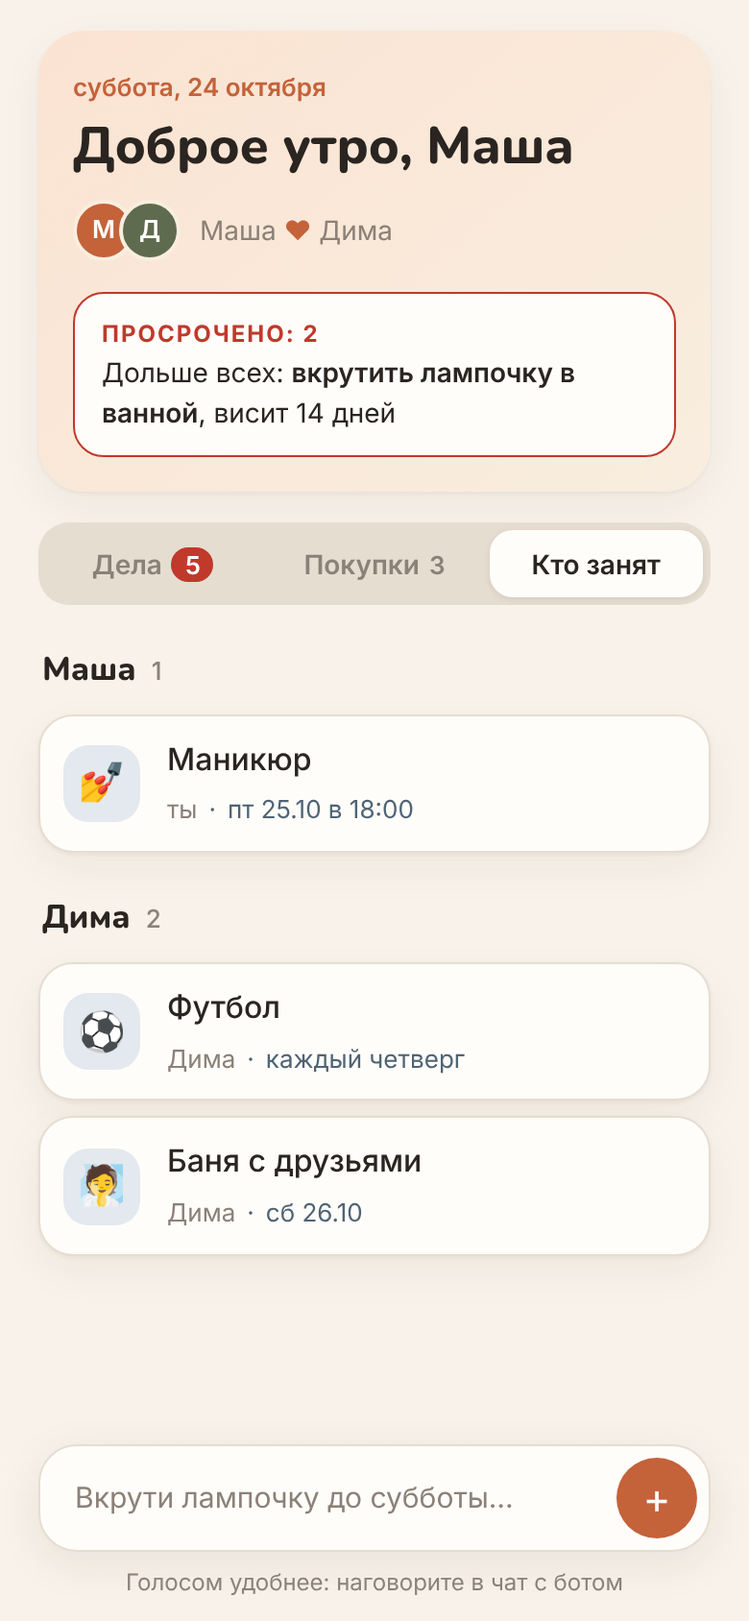
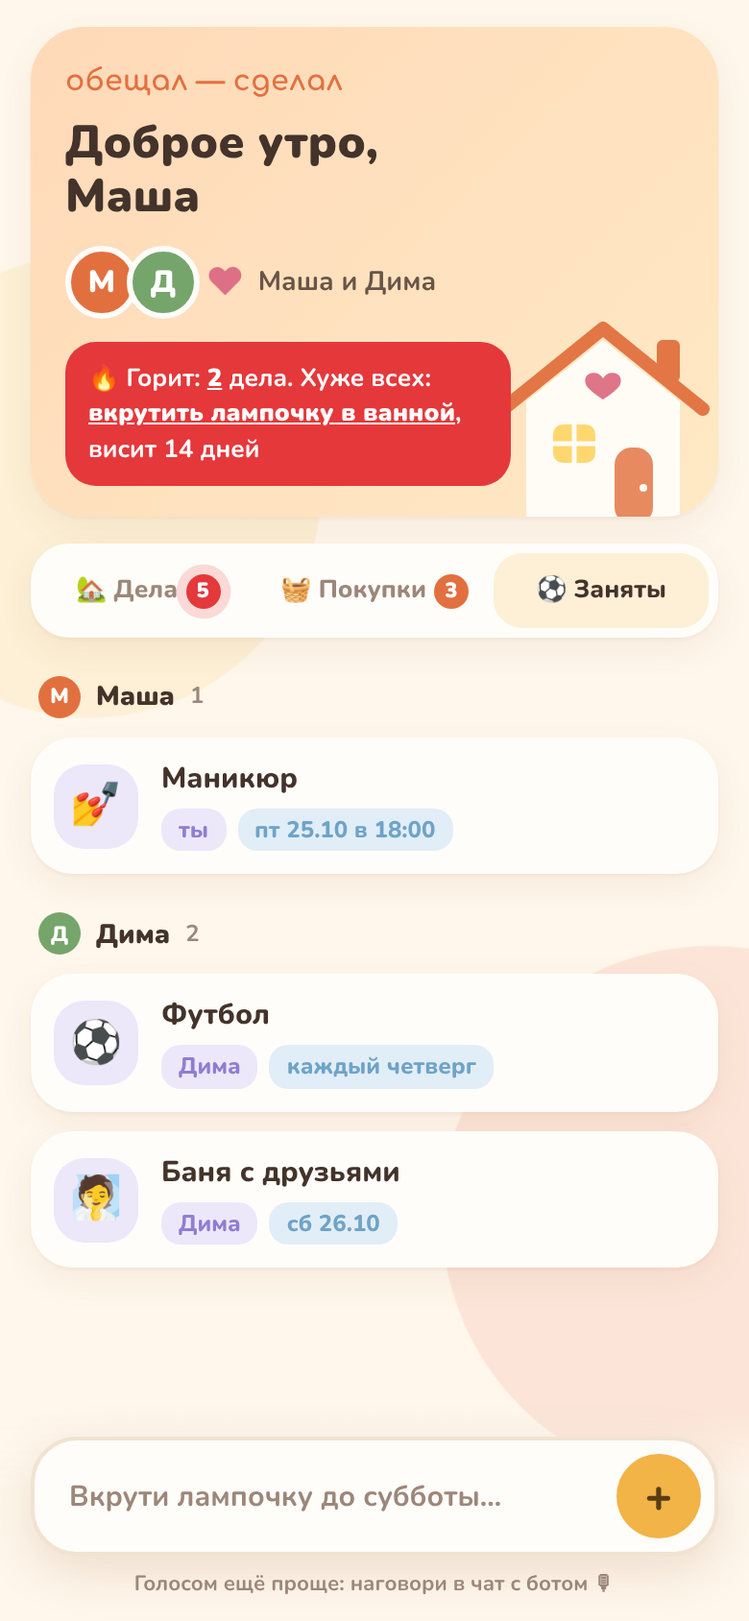
Мини-приложение: возврат к уютному дизайну с домиком
Оставлено красное выделение просроченных дел.

Claude-Session: https://claude.ai/code/session_01K4WBGGq4fEqRaNC21ns6ax

diff --git a/webapp/index.html b/webapp/index.html
@@ -6,127 +6,151 @@
 <title>Обещал — сделал</title>
 <script src="https://telegram.org/js/telegram-web-app.js"></script>
 <link rel="preconnect" href="https://fonts.googleapis.com">
-<link href="https://fonts.googleapis.com/css2?family=Nunito:wght@700;800&family=Inter:wght@400;500;600;700&display=swap" rel="stylesheet">
+<link href="https://fonts.googleapis.com/css2?family=Comfortaa:wght@700&family=Nunito:wght@600;700;800;900&display=swap" rel="stylesheet">
 <style>
 :root{
-  --bg:#F8F2EA; --paper:#FFFDFA; --ink:#2A2521; --muted:#8B8178; --line:#E6DDD1;
-  --accent:#C4623A; --accent-soft:#F8E4D8; --peach1:#FBE3D2; --peach2:#F8EEDF; --olive:#5F6B4E; --olive-soft:#E7EADF;
-  --plum:#6E4A5E; --plum-soft:#EFE5EA; --slate:#4F6475; --slate-soft:#E3E9EE;
-  --hot:#C0392B; --hot-soft:#FBEAE7; --hot-glow:rgba(192,57,43,.16);
-  --shadow:0 1px 2px rgba(60,40,20,.05), 0 8px 24px rgba(60,40,20,.05);
+  --bg:#FFF7EC; --paper:#FFFDF9; --ink:#43332B; --muted:#9C877A; --line:#F1E3D2;
+  --terra:#E2703F; --terra-soft:#FCE5D8; --honey:#F2B347; --honey-soft:#FDF0D6;
+  --sage:#76A56B; --sage-soft:#E5F0DF; --rose:#DD6F86; --rose-soft:#FBE3E8;
+  --lav:#8C7FD1; --lav-soft:#ECE8FA; --sky:#6FA3C8; --sky-soft:#E1EEF7;
+  --hero1:#FFD9B8; --hero2:#FFE9C4; --shadow:0 6px 18px rgba(140,90,50,.08), 0 1px 2px rgba(140,90,50,.06);
+  --window:#FFD66B; --hot:#E5383B; --hot-soft:#FFE3E0; --hot-glow:rgba(229,56,59,.18);
 }
 @media (prefers-color-scheme: dark){
   :root:not([data-theme="light"]){
-    --bg:#181512; --paper:#221E1A; --ink:#EDE6DD; --muted:#9A8F84; --line:#352F29;
-    --accent:#E08A62; --accent-soft:#3A2A20; --peach1:#3A281E; --peach2:#2C241D; --olive:#A3B08C; --olive-soft:#2A2E22;
-    --plum:#C99BB3; --plum-soft:#35262E; --slate:#95ADC0; --slate-soft:#232C33;
-    --hot:#F0645A; --hot-soft:#3A1D1A; --hot-glow:rgba(240,100,90,.22); --shadow:none;
+    --bg:#1F1813; --paper:#2A211B; --ink:#F5E9DF; --muted:#AE9888; --line:#3A2E26;
+    --terra:#F08A5D; --terra-soft:#43291D; --honey:#F5C266; --honey-soft:#3F3220;
+    --sage:#93C487; --sage-soft:#26331F; --rose:#F08EA2; --rose-soft:#42232B;
+    --lav:#A99DEB; --lav-soft:#2D2843; --sky:#8FBEDF; --sky-soft:#1F2F3B;
+    --hero1:#4A2F22; --hero2:#3D3020; --shadow:0 6px 18px rgba(0,0,0,.25); --window:#F5C266; --hot:#FF5A5F; --hot-soft:#4A1F1F; --hot-glow:rgba(255,90,95,.25);
   }
 }
 :root[data-theme="dark"]{
-  --bg:#181512; --paper:#221E1A; --ink:#EDE6DD; --muted:#9A8F84; --line:#352F29;
-  --accent:#E08A62; --accent-soft:#3A2A20; --peach1:#3A281E; --peach2:#2C241D; --olive:#A3B08C; --olive-soft:#2A2E22;
-  --plum:#C99BB3; --plum-soft:#35262E; --slate:#95ADC0; --slate-soft:#232C33;
-  --hot:#F0645A; --hot-soft:#3A1D1A; --hot-glow:rgba(240,100,90,.22); --shadow:none;
+  --bg:#1F1813; --paper:#2A211B; --ink:#F5E9DF; --muted:#AE9888; --line:#3A2E26;
+  --terra:#F08A5D; --terra-soft:#43291D; --honey:#F5C266; --honey-soft:#3F3220;
+  --sage:#93C487; --sage-soft:#26331F; --rose:#F08EA2; --rose-soft:#42232B;
+  --lav:#A99DEB; --lav-soft:#2D2843; --sky:#8FBEDF; --sky-soft:#1F2F3B;
+  --hero1:#4A2F22; --hero2:#3D3020; --shadow:0 6px 18px rgba(0,0,0,.25); --window:#F5C266; --hot:#FF5A5F; --hot-soft:#4A1F1F; --hot-glow:rgba(255,90,95,.25);
 }
 *{box-sizing:border-box;-webkit-tap-highlight-color:transparent}
-body{margin:0;background:var(--bg);color:var(--ink);font:400 15px/1.45 Inter,system-ui,sans-serif;padding:0 20px 130px}
+body{margin:0;background:var(--bg);color:var(--ink);font:700 15px/1.4 Nunito,system-ui,sans-serif;padding:0 16px 130px;
+  background-image:radial-gradient(circle at 12% 30%, var(--honey-soft) 0 120px, transparent 121px),
+                   radial-gradient(circle at 95% 75%, var(--terra-soft) 0 140px, transparent 141px);
+  background-attachment:fixed}
 button{font-family:inherit}
-.serif{font-family:Nunito,Inter,sans-serif}
 
-header{margin:16px 0 4px;padding:20px 18px 18px;border-radius:24px;background:linear-gradient(140deg,var(--peach1),var(--peach2));box-shadow:var(--shadow)}
-.date{font-size:13px;font-weight:600;color:var(--accent)}
-.hello{font-family:Nunito,Inter,sans-serif;font-weight:800;font-size:27px;line-height:1.15;margin:6px 0 12px;letter-spacing:-.2px}
-.pair{display:flex;align-items:center;gap:10px;font-size:14px;color:var(--muted)}
-.avas{display:flex}
-.ava{width:32px;height:32px;border-radius:50%;display:grid;place-items:center;font-weight:600;font-size:13px;color:var(--paper);border:2px solid var(--peach2)}
-.ava.me{background:var(--accent)}
-.ava.you{background:var(--olive);margin-left:-8px}
-.ava.wait{background:var(--line);color:var(--muted);margin-left:-8px}
-.oldest{margin:16px 0 0;padding:12px 14px;border-radius:16px;background:var(--paper);font-size:14px}
-.oldest b{font-weight:600}
-.oldest.alarm{background:var(--paper);border:1.5px solid var(--hot);color:var(--ink)}
-.oldest.alarm .lbl{color:var(--hot);font-weight:700;text-transform:uppercase;letter-spacing:1px;font-size:12px;display:block;margin-bottom:2px}
+/* the hero: a little house with the couple inside */
+.hero{position:relative;margin:14px 0 6px;padding:18px 18px 16px;border-radius:28px;overflow:hidden;
+  background:linear-gradient(135deg,var(--hero1),var(--hero2));box-shadow:var(--shadow)}
+.hero svg.house{position:absolute;right:-6px;bottom:-4px;width:132px;height:118px;opacity:.95}
+.brand{font-family:Comfortaa,Nunito,sans-serif;font-size:15px;color:var(--terra);letter-spacing:.2px}
+.hello{font-size:24px;font-weight:900;line-height:1.15;margin:8px 0 12px;max-width:66%}
+.pair{display:flex;align-items:center;gap:8px}
+.ava{width:38px;height:38px;border-radius:50%;display:grid;place-items:center;font-weight:900;font-size:16px;color:#fff;border:3px solid var(--paper)}
+.ava.me{background:var(--terra)}
+.ava.you{background:var(--sage);margin-left:-14px}
+.ava.wait{background:var(--line);color:var(--muted);margin-left:-14px}
+.heart{color:var(--rose);font-size:18px;margin-left:-4px;animation:beat 2.4s infinite}
+@keyframes beat{0%,100%{transform:scale(1)}12%{transform:scale(1.25)}24%{transform:scale(1)}}
+.names{font-size:14px;color:var(--ink);opacity:.8}
+.oldest{margin:12px 0 0;padding:10px 12px;border-radius:16px;background:var(--paper);font-size:13px;max-width:72%;position:relative;z-index:1}
+.oldest b{color:var(--terra)}
 
-.invite{background:var(--paper);border:1px solid var(--line);border-radius:12px;padding:14px;margin:14px 0;display:flex;gap:12px;align-items:center}
-.invite p{margin:0;flex:1;font-size:14px;color:var(--muted)}
-.btn{border:0;border-radius:12px;background:var(--accent);color:#fff;font-weight:600;font-size:14px;padding:10px 16px;cursor:pointer}
+.invite{background:var(--paper);border:2px dashed var(--honey);border-radius:22px;padding:14px;margin:12px 0;display:flex;gap:12px;align-items:center}
+.invite p{margin:0;flex:1;font-size:13px}
+.btn{border:0;border-radius:16px;background:var(--terra);color:#fff;font-weight:800;font-size:14px;padding:11px 16px;cursor:pointer}
 
-.tabs{display:flex;gap:4px;background:var(--line);padding:4px;border-radius:16px;margin:16px 0 4px;position:sticky;top:8px;z-index:2}
-.tabs button{flex:1;border:0;background:none;color:var(--muted);font-weight:600;font-size:14px;padding:9px 4px;cursor:pointer;border-radius:12px}
-.tabs button.on{color:var(--ink);background:var(--paper);box-shadow:0 1px 3px rgba(60,40,20,.1)}
-.tabs b{font-weight:600;color:var(--muted);margin-left:5px;font-size:13px}
-.tabs b.hot{color:#fff;background:var(--hot);border-radius:9px;padding:1px 7px}
+.tabs{display:flex;gap:6px;background:var(--paper);padding:5px;border-radius:20px;margin:14px 0 6px;position:sticky;top:8px;z-index:2;box-shadow:var(--shadow)}
+.tabs button{flex:1;border:0;background:none;color:var(--muted);font-weight:800;font-size:13px;padding:10px 4px;border-radius:15px;cursor:pointer;white-space:nowrap}
+.tabs button.on{background:var(--honey-soft);color:var(--ink)}
+.tabs b{display:inline-block;min-width:18px;padding:0 5px;margin-left:4px;border-radius:9px;background:var(--terra);color:#fff;font-size:11px;line-height:18px}
 .tabs b:empty{display:none}
 
-h3{display:flex;align-items:baseline;gap:8px;font-family:Nunito,Inter,sans-serif;font-weight:800;font-size:17px;margin:22px 2px 10px}
-h3 small{font-family:Inter,sans-serif;font-weight:500;color:var(--muted);font-size:13px}
-h3.hot{color:var(--hot)}
+h3{display:flex;align-items:center;gap:8px;font-size:14px;font-weight:900;color:var(--ink);margin:20px 4px 10px}
+h3 .dot{width:22px;height:22px;border-radius:50%;display:grid;place-items:center;font-size:11px;color:#fff}
+h3 small{font-weight:700;color:var(--muted);font-size:12px}
 
-.item{background:var(--paper);border:1px solid var(--line);border-radius:18px;padding:12px 14px 12px 12px;margin-bottom:8px;display:flex;gap:14px;align-items:center;
-  box-shadow:var(--shadow);transition:opacity .3s,transform .3s;cursor:pointer;position:relative;overflow:hidden}
-.blob{width:40px;height:40px;border-radius:13px;display:grid;place-items:center;font-size:20px;flex:none;background:var(--kind-soft)}
-.k-task{--kind-soft:var(--accent-soft)} .k-event{--kind-soft:var(--plum-soft)} .k-buy{--kind-soft:var(--olive-soft)} .k-busy{--kind-soft:var(--slate-soft)}
-.item.gone{opacity:0;transform:translateX(24px)}
+.item{background:var(--paper);border-radius:22px;padding:12px;margin-bottom:10px;display:flex;gap:12px;align-items:center;
+  box-shadow:var(--shadow);transition:opacity .35s,transform .35s;cursor:pointer}
+.item.gone{opacity:0;transform:scale(.92) translateY(-6px)}
+.blob{width:44px;height:44px;border-radius:16px;display:grid;place-items:center;font-size:22px;flex:none}
+.k-task .blob{background:var(--honey-soft)} .k-event .blob{background:var(--rose-soft)}
+.k-buy .blob{background:var(--sage-soft)}  .k-busy .blob{background:var(--lav-soft)}
 .body{flex:1;min-width:0}
-.text{font-weight:500;font-size:16px;word-wrap:break-word;line-height:1.3}
-.meta{display:flex;gap:6px;flex-wrap:wrap;margin-top:7px;font-size:13px;color:var(--muted)}
-.meta span + span::before{content:"·";margin-right:6px}
-.meta .when{color:var(--slate)}
-.meta .hang{color:var(--accent)}
-.meta .late{color:var(--hot);font-weight:700}
-.warn{font-size:13px;color:var(--plum);margin-top:8px;padding:8px 10px;border-radius:8px;background:var(--plum-soft)}
-.item.hot{background:var(--hot-soft);border-color:var(--hot);animation:alarm 2s ease-in-out infinite}
+.text{font-weight:800;word-wrap:break-word;line-height:1.25}
+.meta{display:flex;gap:6px;flex-wrap:wrap;margin-top:6px}
+.chip{font-size:12px;font-weight:800;padding:3px 9px;border-radius:10px;background:var(--line);color:var(--muted)}
+.chip.when{background:var(--sky-soft);color:var(--sky)}
+.chip.hang{background:var(--terra-soft);color:var(--terra)}
+.chip.both{background:var(--rose-soft);color:var(--rose)}
+.chip.busy{background:var(--lav-soft);color:var(--lav)}
+.warn{font-size:12px;color:var(--rose);margin-top:8px;padding:8px 10px;border-radius:12px;background:var(--rose-soft);font-weight:700}
+.item.hot{background:var(--hot-soft);border:2px solid var(--hot);animation:alarm 1.8s ease-in-out infinite}
 .item.hot .blob{background:var(--paper)}
-.item.hot .text{color:var(--hot);font-weight:600}
+.item.hot .text{color:var(--hot)}
 .item.hot .check{border-color:var(--hot)}
-@keyframes alarm{0%,100%{box-shadow:0 0 0 0 var(--hot-glow)}50%{box-shadow:0 0 0 6px var(--hot-glow)}}
-.check{width:28px;height:28px;border-radius:50%;border:1.5px solid var(--muted);flex:none;cursor:pointer;display:grid;place-items:center;
-  color:transparent;background:none;padding:0;font-size:14px;transition:all .2s}
-.check:hover{border-color:var(--olive)}
-.item.done .check{background:var(--olive);border-color:var(--olive);color:var(--paper)}
+@keyframes alarm{0%,100%{box-shadow:0 0 0 0 var(--hot-glow)}50%{box-shadow:0 0 0 7px var(--hot-glow)}}
+.chip.late{background:var(--hot);color:#fff}
+h3.hot{color:var(--hot);font-size:15px;letter-spacing:.5px}
+.oldest.alarm{background:var(--hot);color:#fff}
+.oldest.alarm b{color:#fff;text-decoration:underline}
+.tabs b.hot{background:var(--hot);animation:alarm 1.8s infinite}
+.check{width:34px;height:34px;border-radius:50%;border:2.5px solid var(--line);flex:none;cursor:pointer;display:grid;place-items:center;
+  color:transparent;background:none;padding:0;font-size:16px;transition:all .25s}
+.check:hover{border-color:var(--sage)}
+.item.done .check{background:var(--sage);border-color:var(--sage);color:#fff;transform:scale(1.1)}
 
-.empty{text-align:center;color:var(--muted);padding:44px 24px}
-.empty .t{font-family:Nunito,Inter,sans-serif;font-size:19px;color:var(--ink);margin-bottom:6px}
+.empty{text-align:center;color:var(--muted);padding:36px 24px;background:var(--paper);border-radius:26px;margin-top:16px;box-shadow:var(--shadow)}
+.empty .big{font-size:46px;margin-bottom:8px}
 
-.composer{position:fixed;left:0;right:0;bottom:0;padding:12px 20px calc(12px + env(safe-area-inset-bottom));background:linear-gradient(transparent,var(--bg) 35%)}
-.composer form{display:flex;gap:8px;align-items:center;background:var(--paper);border-radius:20px;padding:6px 6px 6px 16px;border:1px solid var(--line);box-shadow:0 6px 24px rgba(60,40,20,.08)}
-.composer input{flex:1;border:0;background:none;color:var(--ink);font:400 15px Inter,sans-serif;outline:none;min-width:0}
+.composer{position:fixed;left:0;right:0;bottom:0;padding:12px 16px calc(12px + env(safe-area-inset-bottom));background:linear-gradient(transparent,var(--bg) 35%)}
+.composer form{display:flex;gap:8px;align-items:center;background:var(--paper);border-radius:24px;padding:7px 7px 7px 16px;box-shadow:0 8px 26px rgba(140,90,50,.16);border:2px solid var(--line)}
+.composer input{flex:1;border:0;background:none;color:var(--ink);font:700 15px Nunito,sans-serif;outline:none;min-width:0}
 .composer input::placeholder{color:var(--muted)}
-.composer .btn{width:42px;height:42px;border-radius:50%;padding:0;font-size:22px;line-height:1;font-weight:400}
-.composer .hint{font-size:12px;color:var(--muted);text-align:center;margin-top:7px}
+.composer .btn{width:44px;height:44px;padding:0;border-radius:50%;font-size:24px;line-height:1;background:var(--honey);color:#5A3B12}
+.composer .hint{font-size:11px;color:var(--muted);text-align:center;margin-top:7px}
 
-.sheet{position:fixed;inset:0;background:rgba(20,15,10,.4);display:none;align-items:flex-end;z-index:5}
+.sheet{position:fixed;inset:0;background:rgba(40,25,15,.4);display:none;align-items:flex-end;z-index:5}
 .sheet.on{display:flex}
-.sheet > div{background:var(--paper);width:100%;border-radius:18px 18px 0 0;padding:10px 20px calc(18px + env(safe-area-inset-bottom))}
-.sheet .grab{width:36px;height:4px;border-radius:2px;background:var(--line);margin:0 auto 14px}
-.sheet .title{font-family:Nunito,Inter,sans-serif;font-weight:600;font-size:19px;margin:0 0 6px}
-.sheet button{display:block;width:100%;text-align:left;border:0;background:none;color:var(--ink);font-weight:500;font-size:16px;padding:14px 2px;border-bottom:1px solid var(--line);cursor:pointer}
-.sheet button:last-child{border:0;color:var(--muted);text-align:center}
-.sheet button.red{color:var(--hot)}
+.sheet > div{background:var(--paper);width:100%;border-radius:28px 28px 0 0;padding:10px 18px calc(18px + env(safe-area-inset-bottom))}
+.sheet .grab{width:40px;height:5px;border-radius:3px;background:var(--line);margin:0 auto 12px}
+.sheet .title{font-weight:900;font-size:17px;margin:0 0 8px}
+.sheet button{display:flex;gap:12px;align-items:center;width:100%;text-align:left;border:0;background:none;color:var(--ink);font-weight:800;font-size:16px;padding:13px 6px;border-bottom:1px solid var(--line);cursor:pointer}
+.sheet button:last-child{border:0;color:var(--muted);justify-content:center}
+.sheet button.red{color:var(--rose)}
 
-.toast{position:fixed;left:20px;right:20px;top:14px;background:var(--ink);color:var(--paper);border-radius:12px;padding:13px 16px;font-size:14px;z-index:9;
-  transform:translateY(calc(-100% - 40px));transition:transform .3s ease}
+.toast{position:fixed;left:16px;right:16px;top:14px;background:var(--ink);color:var(--bg);border-radius:20px;padding:13px 16px;font-size:14px;z-index:9;
+  transform:translateY(calc(-100% - 40px));transition:transform .35s cubic-bezier(.2,1.4,.4,1)}
 .toast.on{transform:none}
 </style>
 </head>
 <body>
-<header>
-  <div class="date" id="date"></div>
+<section class="hero" id="hero">
+  <svg class="house" viewBox="0 0 132 118" aria-hidden="true">
+    <path d="M14 58 L66 16 L118 58" fill="none" stroke="var(--terra)" stroke-width="7" stroke-linecap="round" stroke-linejoin="round"/>
+    <rect x="94" y="22" width="12" height="22" rx="3" fill="var(--terra)"/>
+    <path d="M26 54 L66 22 L106 54 L106 118 L26 118 Z" fill="var(--paper)"/>
+    <rect x="40" y="66" width="22" height="20" rx="5" fill="var(--window)"/>
+    <path d="M51 66 V86 M40 76 H62" stroke="var(--paper)" stroke-width="2.5"/>
+    <rect x="72" y="78" width="20" height="40" rx="9" fill="var(--terra)" opacity=".85"/>
+    <circle cx="87" cy="99" r="2" fill="var(--paper)"/>
+    <path d="M66 42 c-3-5-11-3-9 3 c1 3 9 8 9 8 s8-5 9-8 c2-6-6-8-9-3z" fill="var(--rose)"/>
+  </svg>
+  <div class="brand">обещал — сделал</div>
   <div class="hello" id="hello">Загружаю…</div>
   <div class="pair" id="pair"></div>
   <div id="oldest"></div>
-</header>
+</section>
 <div id="invite"></div>
 <nav class="tabs" id="tabs">
-  <button data-tab="tasks" class="on">Дела<b id="n-tasks"></b></button>
-  <button data-tab="buy">Покупки<b id="n-buy"></b></button>
-  <button data-tab="busy">Кто занят</button>
+  <button data-tab="tasks" class="on">🏡 Дела<b id="n-tasks"></b></button>
+  <button data-tab="buy">🧺 Покупки<b id="n-buy"></b></button>
+  <button data-tab="busy">⚽ Заняты</button>
 </nav>
 <main id="list"></main>
 <div class="composer">
   <form id="form"><input id="input" placeholder="Вкрути лампочку до субботы…" autocomplete="off" maxlength="500"><button class="btn" aria-label="Добавить">+</button></form>
-  <div class="hint">Голосом удобнее: наговорите в чат с ботом</div>
+  <div class="hint">Голосом ещё проще: наговори в чат с ботом 🎙</div>
 </div>
 <div class="sheet" id="sheet"><div><div class="grab"></div><div id="sheet-body"></div></div></div>
 <div class="toast" id="toast"></div>
@@ -206,37 +230,36 @@ function itemHtml(it){
   const chips = [];
   if (it.kind !== "buy") {
     const who = it.assignee == null ? "вместе" : it.assignee === S.me.id ? "ты" : it.assignee_name;
-    chips.push(`<span>${esc(who)}</span>`);
+    chips.push(`<span class="chip ${it.kind === "busy" ? "busy" : it.assignee == null ? "both" : ""}">${esc(who)}</span>`);
   }
-  if (it.when) chips.push(`<span class="${it.hot ? "late" : it.when.startsWith("висит") ? "hang" : "when"}">${esc(it.when)}</span>`);
+  if (it.when) chips.push(`<span class="chip ${it.hot ? "late" : it.when.startsWith("висит") ? "hang" : "when"}">${it.hot ? "🔥 " : ""}${esc(it.when)}</span>`);
   const warn = (it.warnings || []).map(w => `<div class="warn">${esc(w)}</div>`).join("");
-  const check = it.kind === "busy" ? "" : `<button class="check" data-done="${it.id}" aria-label="Сделано">✓</button>`;
+  const check = it.kind === "busy" ? "" : `<button class="check" data-done="${it.id}" aria-label="Сделано">♥</button>`;
   return `<div class="item k-${it.kind}${it.hot ? " hot" : ""}" id="i${it.id}" data-more="${it.id}"><div class="blob">${pic(it)}</div>
     <div class="body"><div class="text">${esc(it.text)}</div>${chips.length ? `<div class="meta">${chips.join("")}</div>` : ""}${warn}</div>${check}</div>`;
 }
 
 function group(title, items, dot, cls){
   if (!items.length) return "";
-  return `<h3 class="${cls || ""}">${esc(title)} <small>${items.length}</small></h3>` + items.map(itemHtml).join("");
+  return `<h3 class="${cls || ""}">${dot || ""}${esc(title)} <small>${items.length}</small></h3>` + items.map(itemHtml).join("");
 }
-const dot = () => "";
+const dot = (name, color) => `<span class="dot" style="background:var(${color})">${initial(name)}</span>`;
 
 function render(){
   const me = S.me, p = S.partner;
-  $("date").textContent = new Date().toLocaleDateString("ru-RU", {weekday:"long", day:"numeric", month:"long"});
   $("hello").textContent = `${greeting()}, ${me.name}`;
-  $("pair").innerHTML = `<span class="avas"><span class="ava me">${initial(me.name)}</span>` +
-    (p ? `<span class="ava you">${initial(p.name)}</span></span><span>${esc(me.name)} <span style="color:var(--accent)">♥</span> ${esc(p.name)}</span>`
-       : `<span class="ava wait">?</span></span><span>ждём вторую половину</span>`);
+  $("pair").innerHTML = `<span class="ava me">${initial(me.name)}</span>` +
+    (p ? `<span class="ava you">${initial(p.name)}</span><span class="heart">♥</span><span class="names">${esc(me.name)} и ${esc(p.name)}</span>`
+       : `<span class="ava wait">?</span><span class="names">ждём вторую половину</span>`);
   const hot = S.items.filter(i => i.hot);
   const hanging = S.items.filter(i => i.kind === "task" && /^висит/.test(i.when || ""))
                          .sort((a, b) => parseInt(b.when.slice(6)) - parseInt(a.when.slice(6)))[0];
   $("oldest").innerHTML = hot.length
-    ? `<div class="oldest alarm"><span class="lbl">Просрочено: ${hot.length}</span>Дольше всех: <b>${esc(hot[0].text.toLowerCase())}</b>, ${esc(hot[0].when)}</div>`
-    : hanging ? `<div class="oldest">Дольше всех ждёт: <b>${esc(hanging.text.toLowerCase())}</b>, ${esc(hanging.when)}</div>` : "";
-  $("invite").innerHTML = (!p && S.invite) ? `<div class="invite"><p>Пригласите вторую половину, иначе напоминать будет некому.</p><button class="btn" id="share">Позвать</button></div>` : "";
+    ? `<div class="oldest alarm">🔥 Горит: <b>${hot.length}</b> ${hot.length === 1 ? "дело" : hot.length < 5 ? "дела" : "дел"}. Хуже всех: <b>${esc(hot[0].text.toLowerCase())}</b>, ${esc(hot[0].when)}</div>`
+    : hanging ? `<div class="oldest">🐌 Дольше всех ждёт: <b>${esc(hanging.text.toLowerCase())}</b>, ${esc(hanging.when)}</div>` : "";
+  $("invite").innerHTML = (!p && S.invite) ? `<div class="invite"><p>Позови свою половину, иначе напоминать будет некому. Бот уже точит сарказм 😏</p><button class="btn" id="share">Позвать</button></div>` : "";
   if ($("share")) $("share").onclick = () => {
-    const url = "https://t.me/share/url?url=" + encodeURIComponent(S.invite) + "&text=" + encodeURIComponent("Давай вести наш семейный планер");
+    const url = "https://t.me/share/url?url=" + encodeURIComponent(S.invite) + "&text=" + encodeURIComponent("Давай вести наш семейный планер 🏡");
     tg ? tg.openTelegramLink(url) : window.open(url);
   };
   const by = k => S.items.filter(i => k === "tasks" ? (i.kind === "task" || i.kind === "event") : i.kind === k);
@@ -247,20 +270,20 @@ function render(){
   const items = by(tab);
   let html;
   if (!items.length) {
-    const e = {tasks:["Дел нет","Подозрительно спокойно. Напишите, что обещали друг другу."],
-               buy:["Список пуст","Холодильник, видимо, тоже скоро будет."],
-               busy:["Все свободны","Например: «по четвергам у меня футбол»."]}[tab];
-    html = `<div class="empty"><div class="t">${e[0]}</div>${e[1]}</div>`;
+    const e = {tasks:["🕯","Дел нет. Подозрительно уютно.<br>Напишите, что обещали друг другу."],
+               buy:["🧺","Корзинка пуста.<br>Холодильник, видимо, тоже скоро будет."],
+               busy:["🛋","Все дома, никто не занят.<br>Например: «по четвергам у меня футбол»."]}[tab];
+    html = `<div class="empty"><div class="big">${e[0]}</div>${e[1]}</div>`;
   } else if (tab === "tasks") {
     const cold = items.filter(i => !i.hot);
-    html = group("Просрочено", items.filter(i => i.hot), "", "hot")
-         + group("Ваши дела", cold.filter(i => i.assignee === me.id), dot(me.name, "--terra"))
+    html = group("ГОРИТ", items.filter(i => i.hot), "🔥", "hot")
+         + group("Твои дела", cold.filter(i => i.assignee === me.id), dot(me.name, "--terra"))
          + (p ? group(`Дела: ${p.name}`, cold.filter(i => i.assignee === p.id), dot(p.name, "--sage")) : "")
-         + group("Вместе", cold.filter(i => i.assignee == null));
+         + group("Вместе", cold.filter(i => i.assignee == null), `<span class="dot" style="background:var(--rose)">♥</span>`);
   } else if (tab === "busy") {
     html = group(me.name, items.filter(i => i.assignee === me.id), dot(me.name, "--terra"))
          + (p ? group(p.name, items.filter(i => i.assignee === p.id), dot(p.name, "--sage")) : "");
-  } else html = `<h3>Купить <small>${items.length}</small></h3>` + items.map(itemHtml).join("");
+  } else html = `<h3>🧺 Купить <small>${items.length}</small></h3>` + items.map(itemHtml).join("");
   $("list").innerHTML = html;
 }
 
@@ -273,7 +296,7 @@ $("list").onclick = async e => {
     el.classList.add("done"); tg && tg.HapticFeedback && tg.HapticFeedback.notificationOccurred("success");
     try { await api(`/api/items/${id}/done`, {method:"POST"}); } catch(err){ toast(err.message); el.classList.remove("done"); return; }
     setTimeout(() => { el.classList.add("gone"); setTimeout(() => { S.items = S.items.filter(i => i.id !== id); render(); }, 350); }, 450);
-    toast(["Готово. Вторая половина уже в курсе.","Свершилось. Бот удивлён.","Записано в летопись подвигов."][id % 3]);
+    toast(["Готово! Вторая половина уже в курсе 😏","Свершилось. Бот удивлён.","Записано в семейную летопись подвигов."][id % 3]);
     return;
   }
   const m = e.target.closest("[data-more]");
@@ -283,12 +306,12 @@ $("list").onclick = async e => {
 function openSheet(it){
   const rows = [];
   if (it.kind === "task" || it.kind === "event") {
-    rows.push(`<button data-who="me">Это на мне</button>`);
-    if (S.partner) rows.push(`<button data-who="partner">Передать: ${esc(S.partner.name)}</button>`);
-    rows.push(`<button data-who="both">Делаем вместе</button>`);
+    rows.push(`<button data-who="me">🙋 Это на мне</button>`);
+    if (S.partner) rows.push(`<button data-who="partner">🤝 Передать: ${esc(S.partner.name)}</button>`);
+    rows.push(`<button data-who="both">💞 Делаем вместе</button>`);
   }
-  rows.push(`<button class="red" data-del="1">Удалить</button><button data-close="1">Отмена</button>`);
-  $("sheet-body").innerHTML = `<div class="title">${esc(it.text)}</div>` + rows.join("");
+  rows.push(`<button class="red" data-del="1">🗑 Удалить</button><button data-close="1">Отмена</button>`);
+  $("sheet-body").innerHTML = `<div class="title">${pic(it)} ${esc(it.text)}</div>` + rows.join("");
   $("sheet").classList.add("on");
   $("sheet").onclick = async e => {
     const b = e.target.closest("button");
